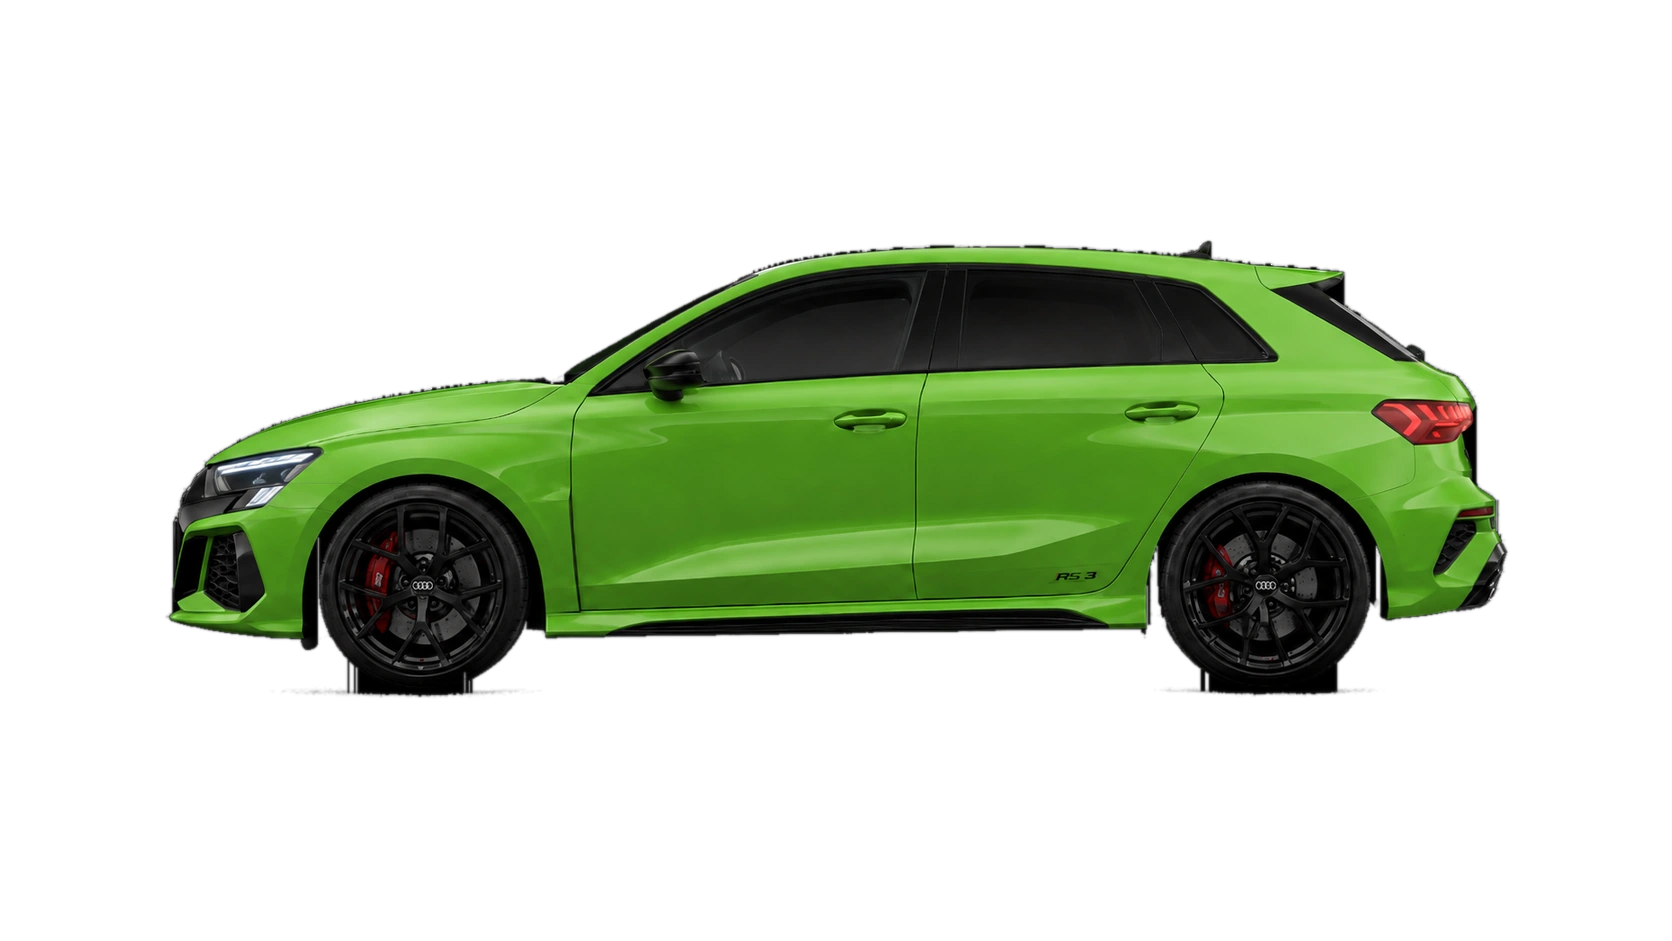
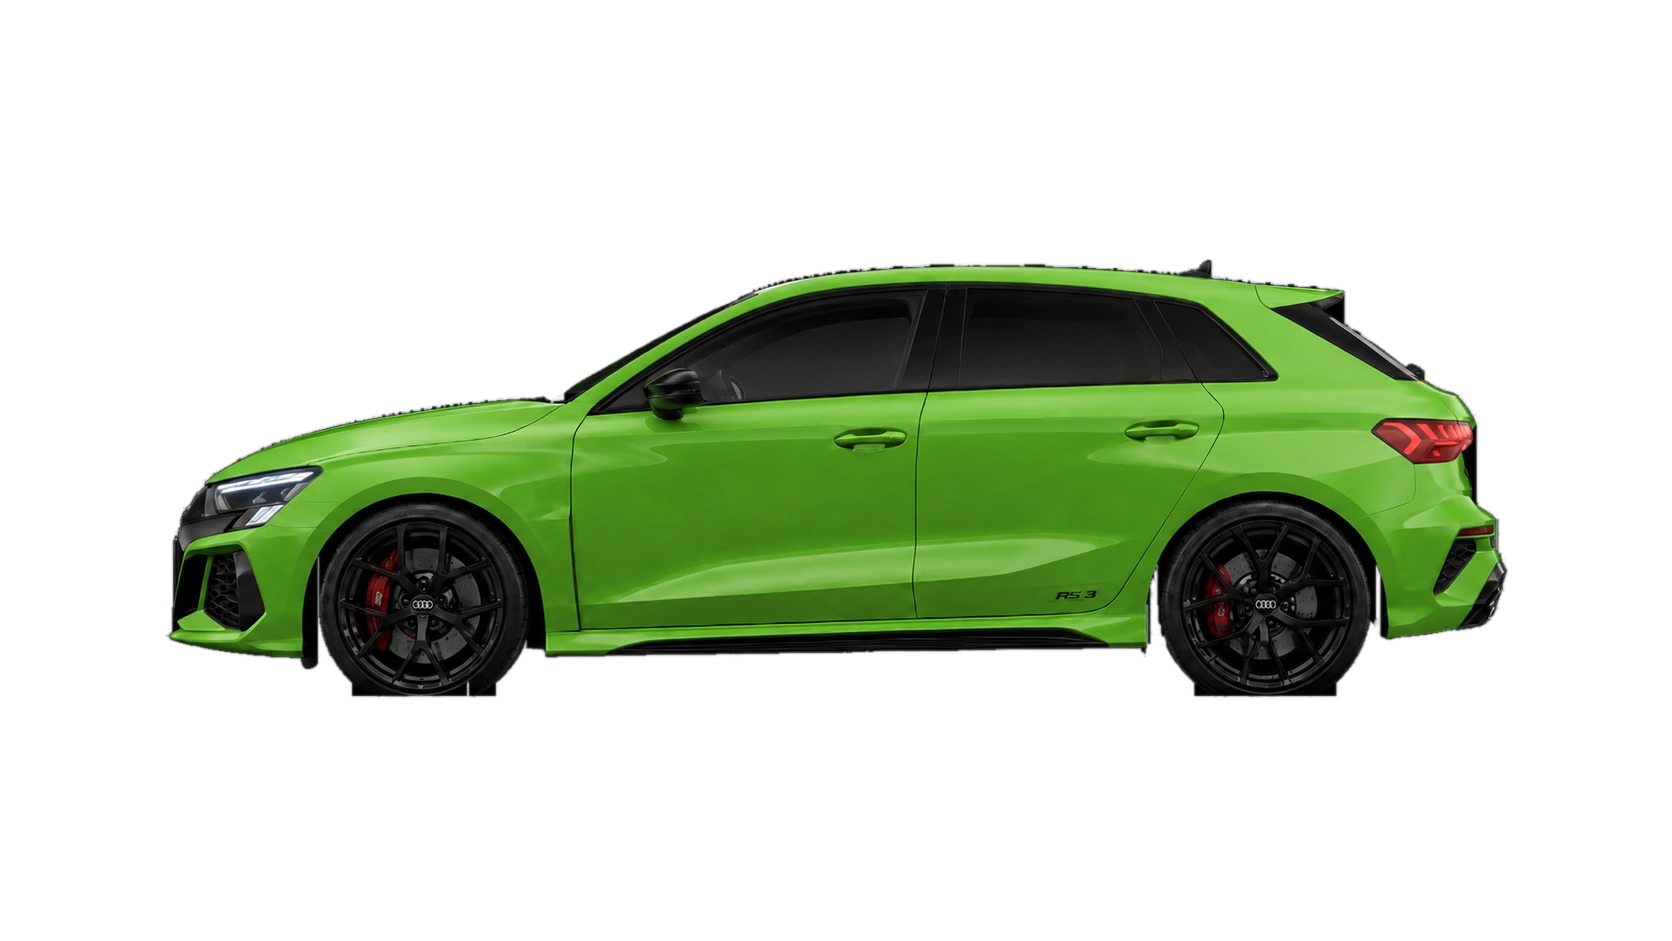
El recorte contra el piso pasa a ser una excepción por auto
El problema de fondo no era cuál corrección aplicar sino a quién: el
recorte es código compartido por los seis, y cada ajuste que hice para
el RS 3 se les aplicaba también a los otros cinco. Eso fue arreglar uno
y romper cinco.

Ahora hay un conjunto AL_PISO con los autos que necesitan que se les
recorte la goma contra el piso. El camino por defecto queda intacto y
es el que siguen los cinco aprobados; sólo el RS 3 entra por el
especial.

Comprobado con git status después de reconstruir: los únicos archivos
que cambian son los tres del RS 3. Los otros quince quedan byte a byte
como estaban.

Changed region(s): [[0.0933, 0.2465, 0.9019, 0.7396]]

diff --git a/tools/build-cars.py b/tools/build-cars.py
@@ -51,6 +51,19 @@ REAL = {
     "audi-rs3":   4389,   # Audi RS 3 Sportback (8Y)
 }
 
+# Autos que necesitan que se les recorte la goma contra el piso.
+#
+# Es una excepción y no el comportamiento por defecto, a propósito. Las
+# cinco primeras fotos traen bajo las ruedas una línea de luz —el
+# reflejo del zócalo— que se funde con la barra de la página y queda
+# bien; tocarlas las empeora. La del RS 3 viene de otra tanda: la goma
+# se desvanece en vez de cortar, y por debajo trae una neblina gris que
+# sobre la barra se ve como una mancha.
+#
+# Cada foto que entre por acá tiene que justificarse mirándola, no por
+# las dudas: lo que le sirve a una le arruina a las otras.
+AL_PISO = {"audi-rs3"}
+
 CANVAS = (1672, 941)   # lienzo de salida, proporción de las fotos
 GROUND = 0.740         # dónde apoyan las ruedas
 CENTER = 0.500         # eje horizontal del auto
@@ -59,7 +72,7 @@ CENTER = 0.500         # eje horizontal del auto
 SIZES = [(3344, "@2x", 88), (1672, "", 94), (1100, "@sm", 88)]
 
 
-def cutout(path):
+def cutout(path, al_piso=False):
     """Devuelve (rgb, alpha) del auto recortado sobre su lienzo original."""
     im = Image.open(path).convert("RGB")
     rgb = np.asarray(im).astype(np.float32)
@@ -74,10 +87,35 @@ def cutout(path):
     ys, xs = np.where(solid)
     if xs.size == 0:
         raise SystemExit(f"no se encontró ningún auto en {path}")
+
+    if not al_piso:
+        # El camino de siempre, intacto. Los cinco autos que ya estaban
+        # aprobados salen por acá y tienen que dar byte a byte lo mismo.
+        for x in range(xs.min(), xs.max() + 1):
+            col = np.where(solid[:, x])[0]
+            if col.size > 3:
+                alpha[col.min(): col.max() + 1, x] = 1.0
+        return rgb, alpha
+
+    # --- camino especial: recortar la goma contra el piso ---
+    #
+    # La línea de apoyo se busca con umbral alto, donde sólo hay chapa y
+    # goma: la neblina del piso no llega a ese nivel.
+    ground = np.where((rgb.max(2) > 45).sum(1) > 3)[0].max()
+
+    # Si una columna termina CERCA del piso es un neumático, y se lo
+    # lleva macizo hasta la línea para que apoye plano en vez de
+    # desvanecerse. Si termina lejos es la panza del auto, y se la deja.
+    CERCA = 14   # px
     for x in range(xs.min(), xs.max() + 1):
-        col = np.where(solid[:, x])[0]
+        col = np.where(solid[:ground + 1, x])[0]
         if col.size > 3:
-            alpha[col.min(): col.max() + 1, x] = 1.0
+            bot = col.max()
+            alpha[col.min(): (ground if ground - bot <= CERCA else bot) + 1, x] = 1.0
+
+    # y nada por debajo: el apoyo lo da la barra de luz de la página
+    y = np.arange(alpha.shape[0])[:, None]
+    alpha *= np.clip((ground + 2 - y) / 2.0, 0, 1)
 
     return rgb, alpha
 
@@ -99,7 +137,7 @@ def main():
     # --- pasada 1: medir, para saber a qué escala llevar a todos ---
     cars = {}
     for s in slugs:
-        rgb, alpha = cutout(f"{SRC}/{s}.png")
+        rgb, alpha = cutout(f"{SRC}/{s}.png", s in AL_PISO)
         x0, x1, _, _ = bounds(alpha)
         # px por mm, normalizado al ancho del lienzo de salida
         cars[s] = (rgb, alpha, (x1 - x0) / rgb.shape[1] * CANVAS[0] / REAL[s])
